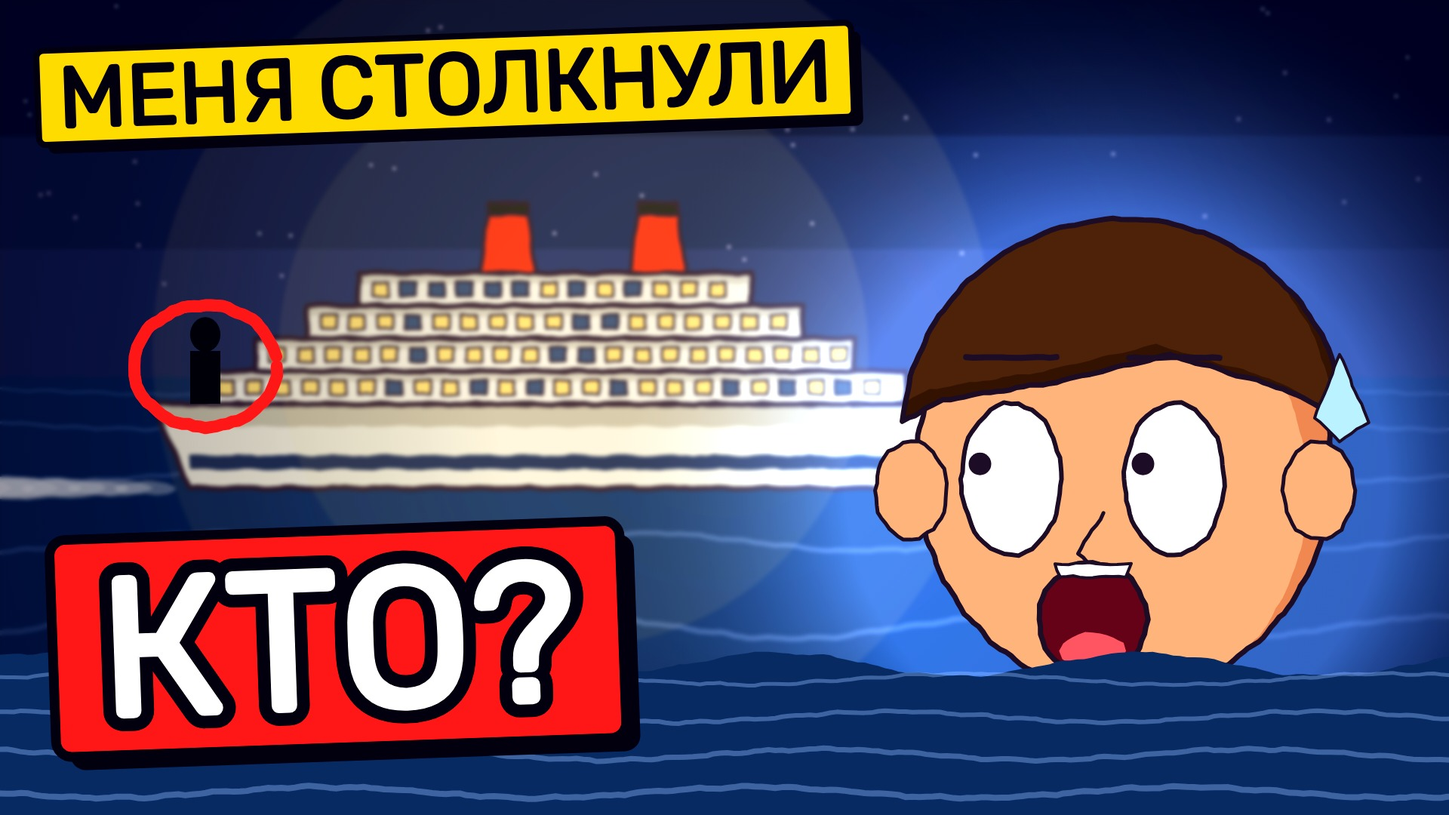
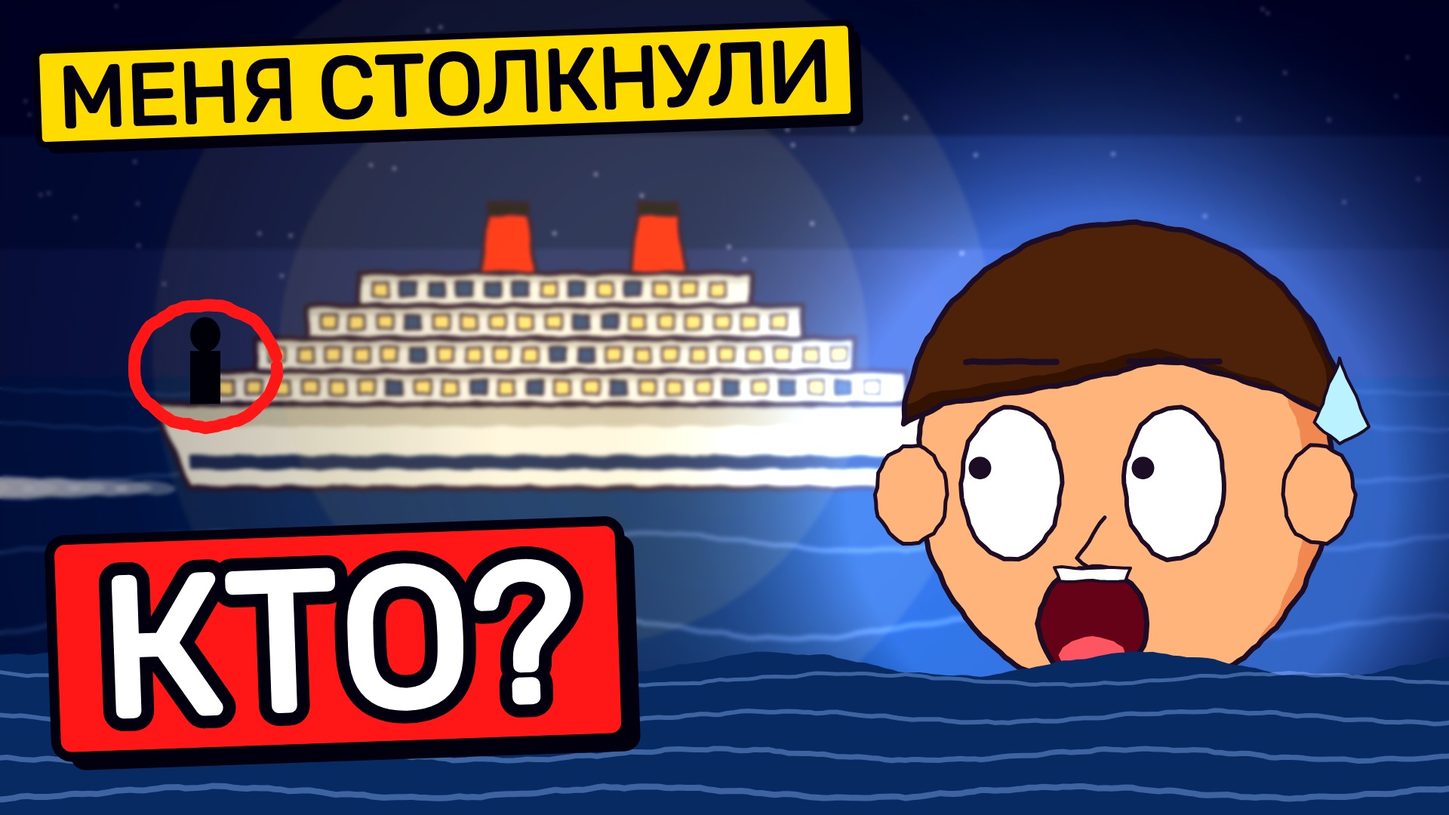
Skill: MrBeast system — title and thumbnail first, frame 0 = thumbnail, first 20 s check (hookcheck.py); liner thumb.js split into SCENE/plates for reuse in the film
Claude-Session: https://claude.ai/code/session_01D3cdzTyQEcBvCWE9U5RGMv

diff --git a/liner-toon/js/thumb.js b/liner-toon/js/thumb.js
@@ -36,53 +36,53 @@ function rim(x, y, R, col) { g.save(); g.globalCompositeOperation = 'lighter'; c
 // const waves = (x, y, n = 4, col = '#ffe7a0') => { for (let k = 0; k < n; k++) T.line(g, T.ell(x, y, 140 + k * 120, 90 + k * 80, 30, -Math.PI * .35, Math.PI * .35), { line: col, lw: 16 - k * 2 }); };
 const ring = (x, y, r) => { T.line(g, T.ell(x, y, r, r * .85, 40), { line: '#ff2a2a', lw: 16 }); };
 const waterline = (y, col = '#16305a') => T.shape(g, [[-300, y + 30], ...Array.from({ length: 26 }, (_, i) => [-300 + i * 100, y + 20 + Math.sin(i * 1.3) * 18]), [2300, y + 30], [2300, 1400], [-300, 1400]], { fill: col, line: false });
-const VAR = {
-  // A — «МЕНЯ СТОЛКНУЛИ / КТО?»: the liner leaving at night, a figure at the stern rail circled, the face in the water
-  A() {
-    W.inWater(g, 1, {}); W.liner(g, 1, 760, 560, .62, { night: true, wake: true });
+// SCENE[v](t) draws the picture only; PLATES[v]() the text plates. The film's first shot calls the same functions
+// (use(g); SCENE.A(t); plates('A', k)) so frame 0 of the video is the thumbnail and the plates fly off while the title is spoken.
+export function use(ctx) { g = ctx; }
+export const SCENE = {
+  // A — the liner leaving at night, a figure at the stern rail circled, your face in the water
+  A(t = 1) {
+    W.inWater(g, t, {}); W.liner(g, t, 760, 560, .62, { night: true, wake: true });
     dof(2.5, 'saturate(1.2)'); vignette(.45);
     const sx = 760 - 900 * .62 + 70, sy = 560 - 40 * .62;     // stern rail
     g.fillStyle = '#05070f'; g.beginPath(); g.ellipse(sx, sy - 92, 20, 23, 0, 0, Math.PI * 2); g.fill(); g.fillRect(sx - 20, sy - 70, 40, 70);
     ring(sx, sy - 50, 95);
     rim(1480, 640, 300, 'rgba(120,170,255,.45)');
-    W.faceClose(g, 0, { eyes: 'wide', brow: 'up', look: [-1, -.4], sweat: true, scream: .7, side: -.5 }, { noBg: true, x: 1490, y: 620, R: 300 });
+    W.faceClose(g, t, { eyes: 'wide', brow: 'up', look: [-1, -.4], sweat: true, scream: .7, side: -.5 }, { noBg: true, x: 1490, y: 620 + Math.sin(t * 2) * 6, R: 300 });
     waterline(860);
-    for (let r = 0; r < 4; r++) T.line(g, Array.from({ length: 26 }, (_, i) => [-300 + i * 100, 900 + r * 50 + Math.sin(i * 1.1 + r) * 8]), { line: 'rgba(170,200,255,.35)', lw: 5 + r, seed: r });
-    plate('МЕНЯ СТОЛКНУЛИ', 50, 130, 130, '#ffd400', '#0b0614', { rot: -.035, max: 1120 });
-    plate('КТО?', 70, 860, 260, '#ff2a2a', '#ffffff', { rot: -.035, stroke: true, max: 900 });
-    grade();
+    for (let r = 0; r < 4; r++) T.line(g, Array.from({ length: 26 }, (_, i) => [-300 + i * 100, 900 + r * 50 + Math.sin(i * 1.1 + r + t * 1.6) * 8]), { line: 'rgba(170,200,255,.35)', lw: 5 + r, seed: r });
   },
-  // B — «40 КМ ДО БЕРЕГА / ТОЛЬКО ДЖИНСЫ»: the face in the night sea, the two inflated knotted jeans legs around the neck
-  B() {
-    W.inWater(g, 1, { boat: 300, boatS: .3 }); dof(2.5, 'saturate(1.2)'); vignette(.45);
+  // B — the face in the night sea, the two inflated knotted jeans legs around the neck
+  B(t = 1) {
+    W.inWater(g, t, { boat: 300, boatS: .3 }); dof(2.5, 'saturate(1.2)'); vignette(.45);
     rim(1470, 560, 280, 'rgba(120,170,255,.45)');
-    W.faceClose(g, 0, { eyes: 'wide', brow: 'worried', look: [-1, .2], sweat: true, scream: .45, side: -.5 }, { noBg: true, x: 1470, y: 540, R: 270 });
+    W.faceClose(g, t, { eyes: 'wide', brow: 'worried', look: [-1, .2], sweat: true, scream: .45, side: -.5 }, { noBg: true, x: 1470, y: 540, R: 270 });
     waterline(850);
-    for (let r = 0; r < 4; r++) T.line(g, Array.from({ length: 26 }, (_, i) => [-300 + i * 100, 920 + r * 45 + Math.sin(i * 1.1 + r) * 8]), { line: 'rgba(170,200,255,.35)', lw: 5 + r, seed: r });
+    for (let r = 0; r < 4; r++) T.line(g, Array.from({ length: 26 }, (_, i) => [-300 + i * 100, 920 + r * 45 + Math.sin(i * 1.1 + r + t * 1.6) * 8]), { line: 'rgba(170,200,255,.35)', lw: 5 + r, seed: r });
     for (const [x1, y1] of [[960, 820], [1990, 800]]) {
       T.shape(g, W.capsule(1470, 880, x1, y1, 184), { fill: '#3a6ab8', shade: '#2a4a88', shadeOff: [0, -18] });
       for (let k = 0; k < 3; k++) T.line(g, [[1470 + (x1 - 1470) * .2, 850 + k * 28], [1470 + (x1 - 1470) * .85, y1 - 30 + k * 28]], { line: '#6a9ae0', lw: 4, seed: k });
       T.shape(g, T.ell(x1, y1, 62, 52, 16), { fill: '#2a4a88', lw: 8 });
     }
     T.shape(g, T.rect(1350, 850, 240, 56), { fill: '#2a4a88', lw: 7 }); T.dot(g, 1470, 878, 12, '#c8a040');
-    plate('40 КМ ДО БЕРЕГА', 50, 150, 130, '#ffd400', '#0b0614', { rot: -.035, max: 1150 });
-    plate('ТОЛЬКО ДЖИНСЫ', 60, 400, 150, '#ff2a2a', '#ffffff', { rot: -.035, stroke: true, max: 1100 });
-    arrow(520, 560, 900, 760, 44);
-    grade();
   },
-  // C — «ОН ДУМАЛ, / Я УТОНУЛ»: the friend in the restaurant, shocked, the cup falling
-  C() {
-    W.restaurant(g, 1, {}); dof(3, 'saturate(1.15)'); sideShade(.55, 1000); vignette(.5);
+  // C — the friend in the restaurant, shocked, the cup falling
+  C(t = 1) {
+    W.restaurant(g, t, {}); dof(3, 'saturate(1.15)'); sideShade(.55, 1000); vignette(.5);
     rim(1460, 560, 300, 'rgba(255,200,120,.45)');
-    W.faceClose(g, 0, { eyes: 'wide', brow: 'up', look: [-1, 0], sweat: true, scream: .8, side: -.4 }, { noBg: true, x: 1460, y: 540, R: 300, who: 'artem' });
+    W.faceClose(g, t, { eyes: 'wide', brow: 'up', look: [-1, 0], sweat: true, scream: .8, side: -.4 }, { noBg: true, x: 1460, y: 540, R: 300, who: 'artem' });
     T.setRot(.9, 980, 860);
     T.shape(g, [[900, 780], [1060, 780], [1040, 940], [920, 940]], { fill: '#ffffff', shade: '#d8d4cc', shadeOff: [-12, 0], lw: 8 });
     T.line(g, T.ell(1068, 850, 36, 46, 16, -Math.PI / 2, Math.PI / 2), { line: '#ffffff', lw: 14 }); T.setRot(0);
     for (let i = 0; i < 3; i++) T.line(g, [[900 + i * 60, 700 - i * 10], [930 + i * 60, 760 - i * 10]], { line: '#fff6c8', lw: 10, seed: i }); for (let i = 0; i < 6; i++) T.dot(g, 900 + i * 38, 990 + (i % 2) * 22, 13, '#7a4a22');
     T.text(g, 'ДЗЫНЬ', 760, 960, 90, '#fff6c8', { rot: -.12 });
-    plate('ОН ДУМАЛ,', 50, 170, 170, '#ffd400', '#0b0614', { rot: -.035, max: 1000 });
-    plate('Я УТОНУЛ', 60, 440, 200, '#ff2a2a', '#ffffff', { rot: -.035, stroke: true, max: 1050 });
-    grade();
   },
 };
-function draw() { T.setTime(0); T.setCam(); g.setTransform(1, 0, 0, 1, 0, 0); g.fillStyle = '#000'; g.fillRect(0, 0, 1920, 1080); VAR[V](); T.setCam(); }
+export const PLATES = {
+  A() { plate('МЕНЯ СТОЛКНУЛИ', 50, 130, 130, '#ffd400', '#0b0614', { rot: -.035, max: 1120 }); plate('КТО?', 70, 860, 260, '#ff2a2a', '#ffffff', { rot: -.035, stroke: true, max: 900 }); },
+  B() { plate('40 КМ ДО БЕРЕГА', 50, 150, 130, '#ffd400', '#0b0614', { rot: -.035, max: 1150 }); plate('ТОЛЬКО ДЖИНСЫ', 60, 400, 150, '#ff2a2a', '#ffffff', { rot: -.035, stroke: true, max: 1100 }); arrow(520, 560, 900, 760, 44); },
+  C() { plate('ОН ДУМАЛ,', 50, 170, 170, '#ffd400', '#0b0614', { rot: -.035, max: 1000 }); plate('Я УТОНУЛ', 60, 440, 200, '#ff2a2a', '#ffffff', { rot: -.035, stroke: true, max: 1050 }); },
+};
+export function plates(v, k = 1) { if (k <= 0) return; g.save(); g.translate(-(1 - k) * 1500, 0); g.globalAlpha = Math.min(1, k * 1.5); PLATES[v](); g.restore(); }
+export { grade };
+function draw() { T.setTime(0); T.setCam(); g.setTransform(1, 0, 0, 1, 0, 0); g.fillStyle = '#000'; g.fillRect(0, 0, 1920, 1080); SCENE[V](1); plates(V, 1); grade(); T.setCam(); }

diff --git a/.claude/skills/video-factory/tools/hookcheck.py b/.claude/skills/video-factory/tools/hookcheck.py
@@ -1,0 +1,130 @@
+"""Check the first 20 seconds the MrBeast way: the title is said, the thumbnail is shown, no intro.
+
+usage: python hookcheck.py <project_dir> [--title "…"] [--thumb "ПЛАШКА 1 / ПЛАШКА 2"]
+
+Reads script.md front matter (`yt_title:` or `title:`, `thumb:`) and the word times from cues.json
+(after align.py); before the voice exists it estimates times from lines.json at 2.7 words/s.
+Checks (exit code 1 if any fails):
+  1. ОБЕЩАНИЕ — at least 60 % of the title's content words are spoken in the first 8 s.
+  2. ПРЕВЬЮ   — at least 50 % of the thumbnail plate words are spoken in the first 10 s.
+  3. КАДР 1   — the first spoken block carries `@thumb A` (its first shot is the thumbnail picture).
+  4. ГЛАВЫ    — the first chapter card comes at 18 s or later.
+  5. БЕЗ ВСТУПЛЕНИЙ — no greeting / «в этом видео» / «подпишись» / «лайк» in the first 20 s.
+"""
+import json, re, sys, argparse
+from pathlib import Path
+
+NUM = {'1': 'один', '2': 'два', '3': 'три', '4': 'четыре', '5': 'пять', '6': 'шесть', '7': 'семь', '8': 'восемь', '9': 'девять',
+       '10': 'десять', '12': 'двенадцать', '14': 'четырнадцать', '20': 'двадцать', '24': 'двадцать', '30': 'тридцать', '40': 'сорок',
+       '50': 'пятьдесят', '100': 'сто', '1000': 'тысяча'}
+STOP = set('я меня мне мной мой моя мои ты тебя тебе тобой твой твоя твои он его ему она её ее мы нас вы вас они их это этот эта '
+           'и а но или в во на с со к ко о об от до из за по под над при про для без что как если чем ли же бы не ни да нет '
+           'что-если там тут так все всё уже ещё еще'.split())
+INTRO = ['привет', 'добро пожаловать', 'в этом видео', 'в этом ролике', 'меня зовут', 'подпишись', 'подпишитесь', 'лайк', 'колокольчик']
+
+
+def norm(w):
+    return re.sub(r'[^0-9a-zа-я\-]', '', w.lower().replace('ё', 'е'))
+
+
+def stem(w):
+    w = NUM.get(w, w)
+    return w[:max(3, min(5, len(w) - 2))]
+
+
+def content_words(s):
+    out = []
+    for raw in re.split(r'[\s/·,.!?:;«»"—–]+', s):
+        w = norm(raw)
+        if not w or w in STOP or (len(w) < 3 and w not in NUM):
+            continue
+        out.append((raw.strip(), stem(w)))
+    return out
+
+
+def front(script):
+    m = re.match(r'^---\n(.*?)\n---', script, re.S)
+    fm = {}
+    for ln in (m.group(1).split('\n') if m else []):
+        mm = re.match(r'^(\w+):\s*(.*)$', ln)
+        if mm: fm[mm.group(1)] = mm.group(2).strip()
+    return fm
+
+
+def timed_words(P):
+    cj = P / 'cues.json'
+    if cj.exists():
+        c = json.loads(cj.read_text())
+        ws = [(w['t0'], norm(w['w'])) for l in c['lines'].values() for w in l.get('words', [])]
+        cards = [x['t'] for x in c.get('cards', [])]
+        return sorted(ws), cards, 'по озвучке'
+    L = json.loads((P / 'lines.json').read_text())
+    L = L['lines'] if isinstance(L, dict) and 'lines' in L else L
+    ws, cards, t = [], [], 0.0
+    for ln in (L.values() if isinstance(L, dict) else L):
+        if ln.get('kind') == 'title' and t > 0: cards.append(t)
+        for w in ln.get('spoken', ln.get('text', '')).split():
+            ws.append((t, norm(w))); t += 1 / 2.7
+        t += .4
+    return ws, cards, 'оценка 2.7 слова/с (озвучки ещё нет)'
+
+
+def first_time(ws, st):
+    for t, w in ws:
+        if w and stem(w) == st:
+            return t
+    return None
+
+
+def main():
+    ap = argparse.ArgumentParser(); ap.add_argument('proj'); ap.add_argument('--title'); ap.add_argument('--thumb')
+    a = ap.parse_args(); P = Path(a.proj)
+    script = (P / 'script.md').read_text(); fm = front(script)
+    title = a.title or fm.get('yt_title') or fm.get('title', '')
+    thumb = a.thumb or fm.get('thumb', '')
+    ws, cards, how = timed_words(P)
+    ok_all = True
+    print(f'Первые 20 секунд ({how})\n')
+
+    def block(name, text, limit, need):
+        nonlocal ok_all
+        cw = content_words(text)
+        if not cw:
+            print(f'{name}: не задано — впиши в front matter'); ok_all = False; return
+        hits = 0
+        rows = []
+        for raw, st in cw:
+            t = first_time(ws, st)
+            good = t is not None and t <= limit
+            hits += good
+            rows.append(f'   {"✓" if good else "✗"} {raw:<16} ' + (f'{t:5.1f} с' if t is not None else 'не звучит'))
+        ok = hits >= need * len(cw)
+        ok_all &= ok
+        print(f'{"✓" if ok else "✗"} {name} «{text}»: {hits}/{len(cw)} слов за {limit} с (нужно ≥ {int(need * 100)} %)')
+        print('\n'.join(rows))
+
+    block('ОБЕЩАНИЕ НАЗВАНИЯ', title, 8, .6)
+    block('ТЕКСТ ПРЕВЬЮ', thumb, 10, .5)
+
+    body = script.split('---', 2)[-1]
+    first = re.split(r'\n\s*\n', body.strip())
+    first_block = next((b for b in first if any(not x.startswith(('@', '#', '!')) and x.strip() for x in b.split('\n'))), '')
+    th = re.search(r'^@thumb\s+(\w+)', first_block, re.M)
+    print(f'{"✓" if th else "✗"} КАДР 1 = ПРЕВЬЮ: ' + (f'@thumb {th.group(1)} в первом блоке' if th else 'нет @thumb A в первом блоке'))
+    ok_all &= bool(th)
+
+    fc = min(cards) if cards else None
+    good = fc is None or fc >= 18
+    print(f'{"✓" if good else "✗"} ПЕРВАЯ ГЛАВА: ' + (f'{fc:.1f} с' if fc is not None else 'нет') + ' (нужно ≥ 18 с)')
+    ok_all &= good
+
+    txt20 = ' '.join(w for t, w in ws if t <= 20)
+    bad = [p for p in INTRO if p in txt20]
+    print(f'{"✓" if not bad else "✗"} БЕЗ ВСТУПЛЕНИЙ: ' + (', '.join(bad) if bad else 'чисто'))
+    ok_all &= not bad
+    print('\nИТОГ: ' + ('первые 20 секунд соответствуют названию и превью' if ok_all else 'переделай начало (см. ✗)'))
+    sys.exit(0 if ok_all else 1)
+
+
+if __name__ == '__main__':
+    main()

diff --git a/.claude/skills/video-factory/SKILL.md b/.claude/skills/video-factory/SKILL.md
@@ -1,6 +1,6 @@
 ---
 name: video-factory
-description: End-to-end factory for narrated YouTube videos (long-form 8–15 min or Shorts) for the channel «А что если?» (survival / rules-horror, Russian, second person). Use when the user says «пишем новый сценарий», «делаем видео», sends voice parts part1.wav… from Google AI Studio, or asks for subtitles with coloured word highlights, HUD (day / time / place / rule n/N), notes, dialogues, rule cards, background music. The user only chooses the style; everything else is automatic.
+description: End-to-end factory for narrated YouTube videos (long-form 8–15 min or Shorts) for the channel «А что если?» (survival / rules-horror, Russian, second person). Use when the user says «пишем новый сценарий», «делаем видео», sends voice parts part1.wav… from Google AI Studio, or asks for subtitles with coloured word highlights, HUD (day / time / place / rule n/N), notes, dialogues, rule cards, background music, or MrBeast-style titles/thumbnails and a first 20 seconds that match them. The user only chooses the style; everything else is automatic.
 ---
 
 # Video factory — сценарий → озвучка → видео
@@ -18,6 +18,16 @@ SK=.claude/skills/video-factory/tools   LIB=/root/lemo-opuscar   PY=$LIB/.venv/b
 - Music samples: `sh $LIB/tools/fetch.sh instruments vsco2ce`, `… vcsl` (orchestral + percussion); for mood spy also `… freepats` (drum kit, electric guitar) and `… karoryfer` (jazz bass).
 - Fonts with Cyrillic are in `assets/fonts` (Press Start 2P, Rubik, Caveat, JetBrains Mono, Old Standard; OFL).
 
+## 0.5 Система MrBeast: название → превью → первые 20 секунд (user rule, Nov 2026)
+The click is a promise; the first seconds must keep it **literally**. Order of work for every video:
+1. **Concept = title + thumbnail first, script second.** Propose topics as: title (≤ 55 chars, one idea, a number or an extreme: «7 дней на необитаемом острове», «40 км до берега»), the thumbnail picture (one moment, one face, 2 plates) and the first spoken line. The user picks from these.
+2. **Title ↔ voice.** The first sentence says the title in the voice's words (same key words, «ты» form): title «7 дней на необитаемом острове» → voice «Семь дней. Необитаемый остров. …» in the first 3 s, HUD «ДЕНЬ 1/7» on screen from frame 0. Title «Меня столкнули с круизного лайнера» → «Тебя столкнули с круизного лайнера. Ночью, в открытом море.» Avoid title words that the opening never says.
+3. **Thumbnail ↔ frame 0.** The thumbnail is a real frame: the video opens on exactly that picture (same set, angle, face, colours, ring/arrow) with the same plates on screen; the plates fly off by ~1 s while the title is spoken, the picture comes alive and stays to the 5–10 s mark. All 3 «Тест и сравнение» variants show **the same opening moment** (they differ only in text, expression, zoom, colour), so whichever wins, the first seconds match it. Never use a later moment of the film as a test thumbnail.
+4. **First 20 s blueprint:** 0–3 s the title promise over the thumbnail picture → 3–10 s the stakes in numbers, every noun shown (40 км, +14°, 6 часов, «плаваешь ты плохо») → 10–20 s the open loops and the goal («Кто это? И как продержаться до утра?») → only then «Вернёмся на N назад» or the first chapter. No greeting, no channel name, no «в этом видео», no «подпишись», no chapter card before 18 s.
+5. **After 20 s:** progression you can feel (time/day counters, the stakes bar dropping), a re-engagement beat every 60–90 s (new problem, twist, poll, СТОП), the payoff at the end, then ≤ 20 s to the end screen.
+6. **Gate:** `$PY $SK/hookcheck.py <proj>` reads `yt_title:` (or `title:`) and `thumb:` («ПЛАШКА 1 / ПЛАШКА 2») from the front matter: title words in the first 8 s, plate words in the first 10 s, `@thumb A` on the first block, first chapter ≥ 18 s, no intro words. Run it right after writing the script (it estimates timing) and again after `align.py`; fix the opening until it passes.
+7. **Code:** `js/thumb.js` exports `use(g)`, `SCENE[v](t)` (picture only) and `plates(v, k)` (k = 1 as on the thumbnail → 0 flown off); `?thumb=A` renders `SCENE.A(1) + plates('A', 1) + grade()`. In `film.js` the first shot of the `@thumb A` block calls the same `SCENE.A(t)` and `plates('A', 1 - (t - .3) / .8)` — one drawing for the thumbnail and frame 0, so they can never drift apart (reference: `liner-toon/js/thumb.js`).
+
 ## 1. Script (сценарий) — markup
 Write `<project>/script.md` (template: `sh $SK/init_project.sh <project> <style> <theme> 1920x1080`). Story rules for this channel: paradox hook in line 1, short sentences, «ты», numbers and times, a Chekhov's gun paid off late, rules as chapters, notes «на полях карандашом» as the previous keeper's mistakes, twist ending, question to viewers + «подпишись»-style CTA.
 
@@ -28,7 +38,7 @@ Write `<project>/script.md` (template: `sh $SK/init_project.sh <project> <style>
 - **Describe every action, show every action (user rule).** Write each physical action as its own short sentence, verb first, concrete objects: «Ты поворачиваешь ключ. Мотор кашляет и заводится. Стрелка бензина — чуть больше половины.» In `film.js` every such verb gets its own shot keyed to that word (key turning, gauge needle, window cracking open, breath freezing on glass, scarf tied to the antenna…). Before building the picture, list the script's verbs and nouns and tick each one off in the shot lists.
 
 **«Сценарий-бомба» checklist (survival thriller; reference `liner-toon/`, «Меня столкнули с круизного лайнера»)** — every big script should tick all of these:
-1. Hook in medias res: the worst second (the push, the fall), then the open question (who? will you survive?), then «Вернёмся на N часов назад».
+1. Hook in medias res on the thumbnail picture: the title said in the first sentence («Тебя столкнули с круизного лайнера»), the stakes in numbers, the open question (who? will you survive?), then «Вернёмся на N часов назад» — §0.5.
 2. Ticking clock from a REAL rule that also gives the chapters (cold water «1-10-1» → `# МИНУТА 1 · …`, `# МИНУТА 10 · …`, `# ЧАС 1 · …`; use a `!` line for the spoken title, e.g. `! Первая минута. Холодовой шок.`).
 3. Two mysteries at once: survival + a human one (who did it / who wrote it). One real suspect, one red herring with a matching false clue.
 4. Fair-play clues planted in the setup (smell of cedar, a bracelet that clinks, the walk he insisted on) and a physical proof for the climax (scratches from your nails under his watch).
@@ -143,8 +153,8 @@ sh $SK/encode.sh <project> <name>       # phone-safe H.264 BT.709 limited range,
 Run the render in the background; send a contact sheet or short preview while waiting. Files over ~95 MB can't be pushed to GitHub — deliver them through the chat file card; commit the code, script, cues and srt.
 
 ## 6. Deliver
-Send the mp4 (SendUserFile), `subtitles.srt` for YouTube, and `YOUTUBE.md`: 3 titles, description (hook in the first 2 lines, teaser, question, CTA, chapters `00:00 …` from cues card times, 3–6 hashtags) and tags ≤ 500 chars. Make **3 thumbnails** for YouTube «Тест и сравнение» (`?thumb=A|B|C` page in `js/thumb.js`: huge scared face with `scream`, red arrow/ring on the threat, vignette; export ≤ 2 MB).
-Thumbnail text = **highlighted plates** (user's preferred look, `planet-toon/js/thumb.js` variants E/F, `plate()`): line 1 black Rubik 900 on a yellow `#ffd400` plate, line 2 the payoff (number / twist) huge white with black stroke on a red `#ff2a2a` plate; both with thick black border + hard offset shadow, rotated −2°, max 4–5 words, left 60 % of the frame; face on the right looking at the text. Background drawn then blurred (`dof()`), dark gradient behind the text (`sideShade`), sharp foreground props that prove the hook (numbered capsules #41, #40…), final `grade()` (saturate/contrast). Check at 320×180 — every word must still read. Text complements the title, never repeats it word for word. Commit and push the project on the working branch.
+Send the mp4 (SendUserFile), `subtitles.srt` for YouTube, and `YOUTUBE.md`: 3 titles (each one said by the voice in the first 8 s — §0.5), description (hook in the first 2 lines, teaser, question, CTA, chapters `00:00 …` from cues card times, 3–6 hashtags) and tags ≤ 500 chars. Make **3 thumbnails** for YouTube «Тест и сравнение», all three of **the opening moment** that frame 0 shows (§0.5) (`?thumb=A|B|C` page in `js/thumb.js`: huge scared face with `scream`, red arrow/ring on the threat, vignette; export ≤ 2 MB).
+Thumbnail text = **highlighted plates** (user's preferred look, `planet-toon/js/thumb.js` variants E/F, `plate()`): line 1 black Rubik 900 on a yellow `#ffd400` plate, line 2 the payoff (number / twist) huge white with black stroke on a red `#ff2a2a` plate; both with thick black border + hard offset shadow, rotated −2°, max 4–5 words, left 60 % of the frame; face on the right looking at the text. Background drawn then blurred (`dof()`), dark gradient behind the text (`sideShade`), sharp foreground props that prove the hook (numbered capsules #41, #40…), final `grade()` (saturate/contrast). Check at 320×180 — every word must still read. Text complements the title, never repeats it word for word, and its words are spoken in the first 10 s (`hookcheck.py`). Commit and push the project on the working branch.
 
 ## Lessons (keep)
 - Never ask the user to paste API keys into chat; voices come from AI Studio by hand.
